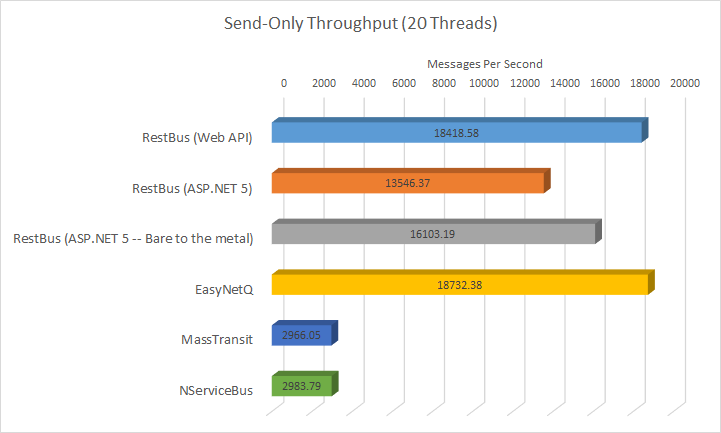
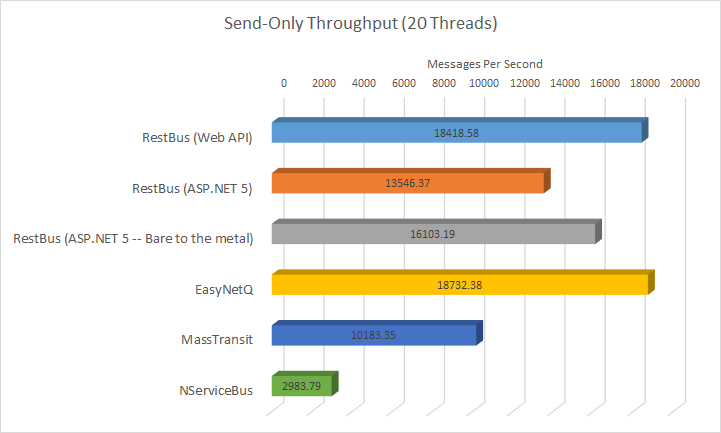
Updated MassTransit tests with results for non-durable (transient) messaging.

Changed region(s): [[0.3967, 0.7206, 0.6713, 0.8106]]

diff --git a/data/RabbitMQ/Send-Only benchmarks chart data.md b/data/RabbitMQ/Send-Only benchmarks chart data.md
@@ -20,11 +20,11 @@
 | RestBus (ASP.NET 5)                      | 2.98415                 | 7.38205  | 12.013    | 28.95435  |   | 16755.19                         | 13546.37 | 16648.63 | 13814.85 |   | 33510.38                   | 27092.75 | 33297.26 | 27629.7  |
 | RestBus (ASP.NET 5 -- Bare to the metal) | 2.86255                 | 6.20995  | 11.2422   | 28.1336   |   | 17466.94                         | 16103.19 | 17790.11 | 14217.87 |   | 34933.89                   | 32206.38 | 35580.22 | 28435.75 |
 | EasyNetQ                                 | 2.6086                  | 5.33835  | 11.131275 | 22.006625 |   | 19167.37                         | 18732.38 | 17967.39 | 18176.34 |   | 38334.74                   | 37464.76 | 35934.79 | 36352.69 |
-| MassTransit                              | 25.4128                 | 33.71485 | 50.0037   | 86.6202   |   | 1967.51                          | 2966.05  | 3999.7   | 4617.86  |   | 3935.02                    | 5932.1   | 7999.41  | 9235.72  |
+| MassTransit                              | 4.9938                  | 9.81995  | 19.7063   | 36.7699   |   | 10012.42                         | 10183.35 | 10149.04 | 10878.46 |   | 20024.83                   | 20366.7  | 20298.08 | 21756.93 |
 | NServiceBus                              | 19.14465                | 33.5144  | 66.1058   | 132.45355 |   | 2611.7                           | 2983.79  | 3025.45  | 3019.93  |   | 5223.39                    | 5967.58  | 6050.91  | 6039.85  |    
 
 
 
 **Notes**  
 - Queues are drained between tests.  
-- The message size is doubled for the first two RestBus and EasyNetQ tests, so that the test period is not too short (<3 secs) and the results are more reliable.
+- The message size is doubled for the first two RestBus, EasyNetQ and MassTransit tests, so that the test period is not too short (<3 secs) and the results are more reliable.

diff --git a/data/RabbitMQ/Payload benchmarks chart data.md b/data/RabbitMQ/Payload benchmarks chart data.md
@@ -20,5 +20,5 @@
 | RestBus (ASP.NET 5)                      | 10.98065                | 11.37995  | 16.98005  | 110.88915 | 1367.209   |   | 18213.86                         | 17574.77 | 11778.53 | 1803.6  | 146.28  |   | 3.47                       | 34.33 | 224.66 | 344.01 | 292.57  |
 | RestBus (ASP.NET 5 -- Bare to the metal) | 10.856                  | 11.3053   | 16.2011   | 110.8399  | 1374.00115 |   | 18422.99                         | 17690.82 | 12344.84 | 1804.4  | 145.56  |   | 3.51                       | 34.55 | 235.46 | 344.16 | 291.12  |
 | EasyNetQ                                 | 11.06085                | 12.1264   | 34.3737   | 396.97915 | 4888.3571  |   | 18081.79                         | 16492.94 | 5818.4   | 503.8   | 40.91   |   | 3.45                       | 32.21 | 110.98 | 96.09  | 81.83   |
-| MassTransit                              | 28.44935                | 28.2511   | 55.57675  | 279.9566  | 2599.29555 |   | 7030.04                          | 7079.37  | 3598.63  | 714.4   | 76.94   |   | 1.34                       | 13.83 | 68.64  | 136.26 | 153.89  |
+| MassTransit                              | 13.8465                 | 14.5973   | 22.12495  | 126.6362  | 1783.232   |   | 14444.08                         | 13701.16 | 9039.57  | 1579.33 | 112.16  |   | 2.75                       | 26.76 | 172.42 | 301.23 | 224.31  |
 | NServiceBus                              | 187.1273                | 192.33485 | 219.77005 | 567.13305 | 4720.5936  |   | 1068.79                          | 1039.85  | 910.04   | 352.65  | 42.37   |   | 0.2                        | 2.03  | 17.36  | 67.26  | 84.74   |

diff --git a/data/RabbitMQ/RPC benchmarks chart data.md b/data/RabbitMQ/RPC benchmarks chart data.md
@@ -20,5 +20,5 @@
 | RestBus (ASP.NET 5)                      | 8.3271                  | 11.4928   | 23.32335  | 49.51375  |   | 6004.49                          | 8701.1  | 8575.1  | 8078.56 |   | 12008.98                   | 17402.2  | 17150.19 | 16157.13 |
 | RestBus (ASP.NET 5 -- Bare to the metal) | 7.59385                 | 11.3704   | 23.00495  | 49.1578   |   | 6584.28                          | 8794.77 | 8693.78 | 8137.06 |   | 13168.55                   | 17589.53 | 17387.56 | 16274.12 |
 | EasyNetQ                                 | 8.7731                  | 13.0456   | 23.8614   | 51.8716   |   | 5699.24                          | 7665.42 | 8381.74 | 7711.35 |   | 11398.48                   | 15330.84 | 16763.48 | 15422.7  |
-| MassTransit                              | 28.12595                | 35.35455  | 51.30155  | 87.26165  |   | 1777.72                          | 2828.49 | 3898.52 | 4583.92 |   | 3555.44                    | 5656.98  | 7797.04  | 9167.83  |
+| MassTransit                              | 11.48225                | 15.47945  | 27.0575   | 64.3217   |   | 4354.55                          | 6460.18 | 7391.67 | 6218.74 |   | 8709.09                    | 12920.36 | 14783.33 | 12437.48 |
 | NServiceBus                              | 85.9955                 | 171.72645 | 341.91375 | 697.73085 |   | 581.43                           | 582.32  | 584.94  | 573.29  |   | 1162.85                    | 1164.64  | 1169.89  | 1146.57  |

diff --git a/readme.md b/readme.md
@@ -18,9 +18,6 @@ See the [test plan](test_plan.md) for more information about the tests.
 
 - All consumers are set to have a [prefetch count](https://www.rabbitmq.com/consumer-prefetch.html) of 50, however MassTransit's consumer prefetch count is global.  
 - MassTransit's consumers have [publisher confirms](https://www.rabbitmq.com/confirms.html) turned on, and there seems to be no way to turn it off.  
-- There seems to be no way to use transient queues in MassTransit (RPC) clients; there also seems to be no way to use non-persistent messaging (delivery mode) over durable queues; therefore in these tests, MassTransit messages were persistent.  
-
-These factors may have adversely affected MassTransit's performance.
 
 **NServiceBus**
 

diff --git a/test_plan.md b/test_plan.md
@@ -1,5 +1,5 @@
 ### Test Date
-January 16 2016.
+January 16 2016. *(Updated MassTransit tests on February 22nd 2016)*
 
 ### Test Environment
 
